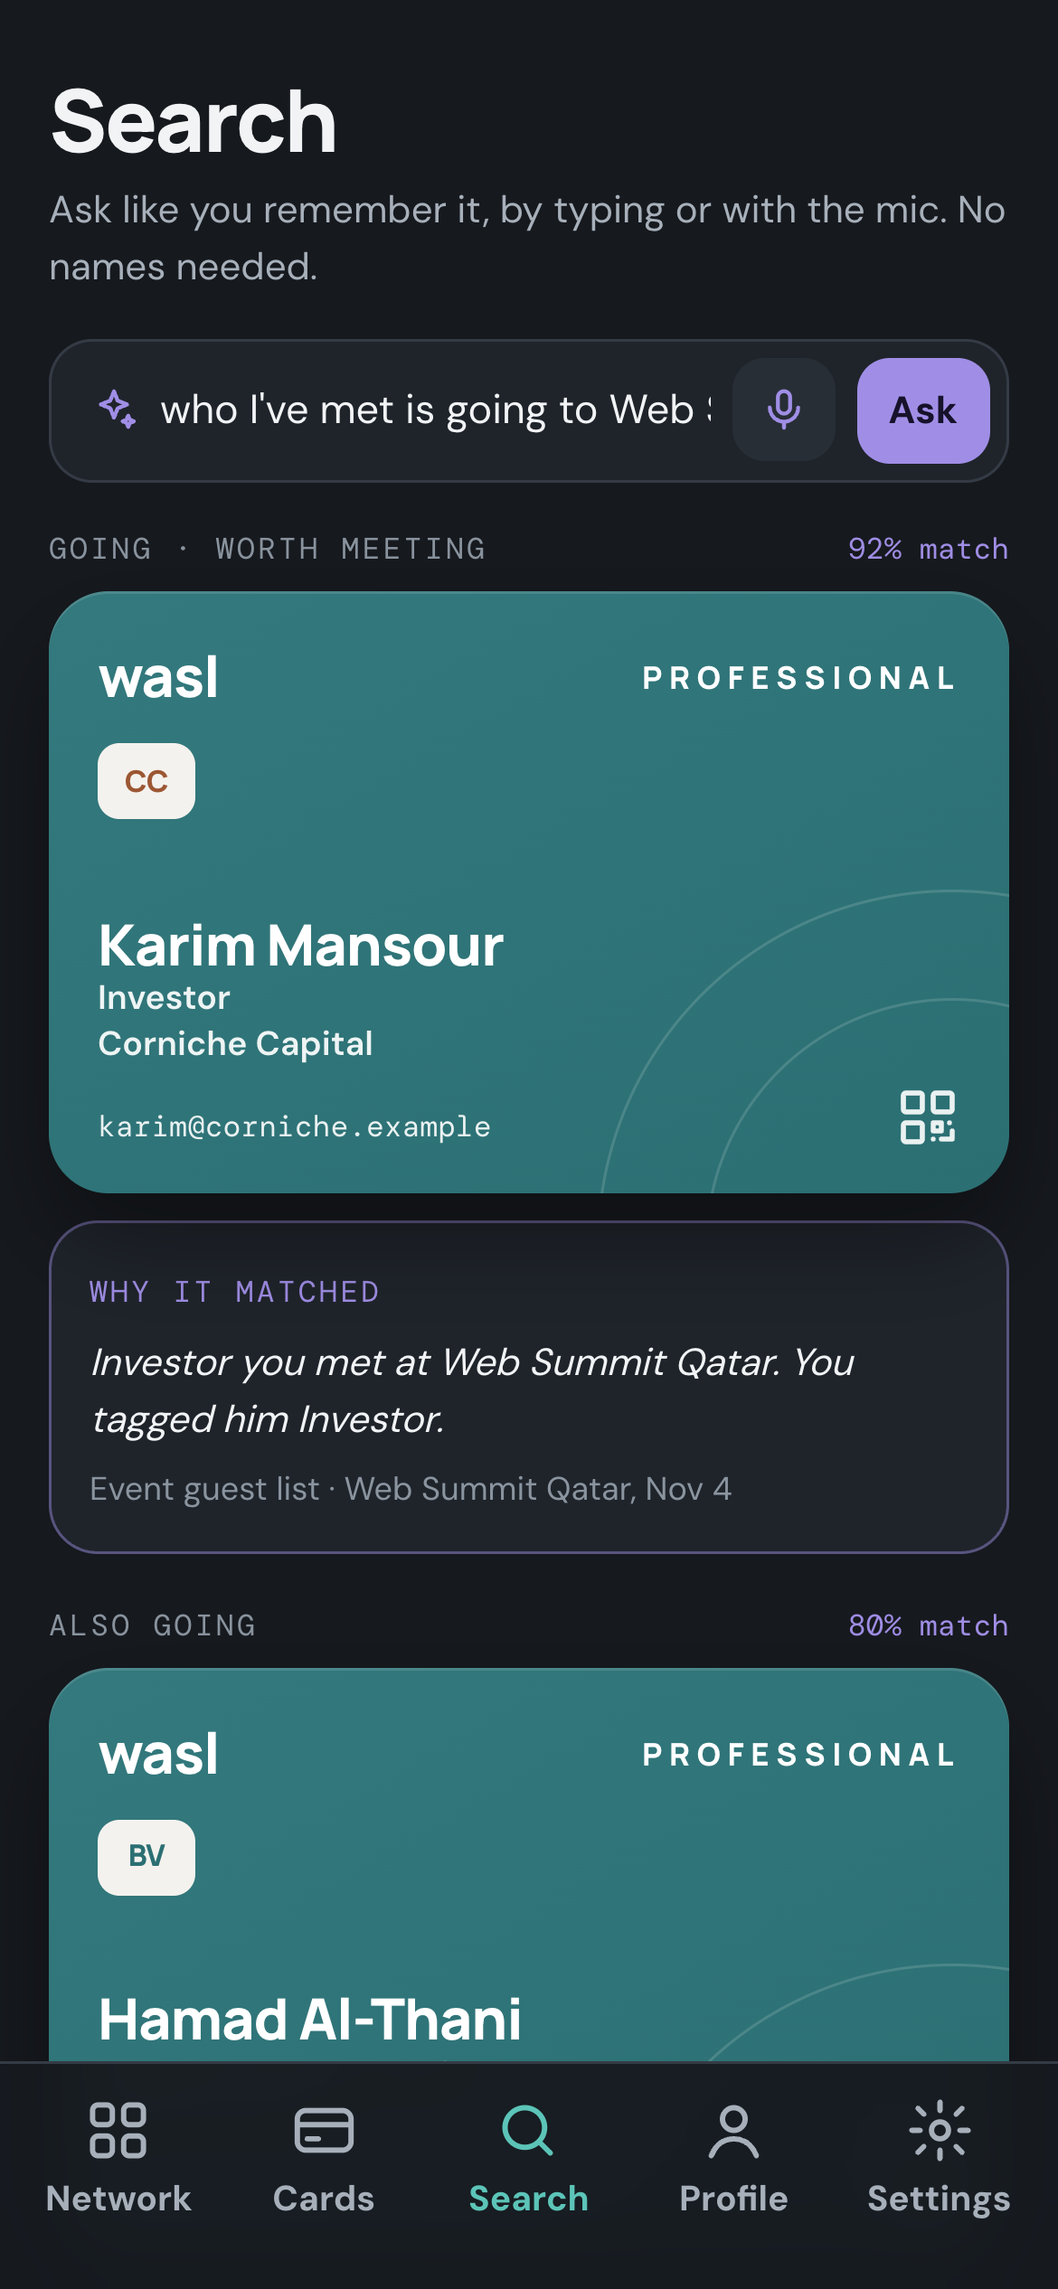
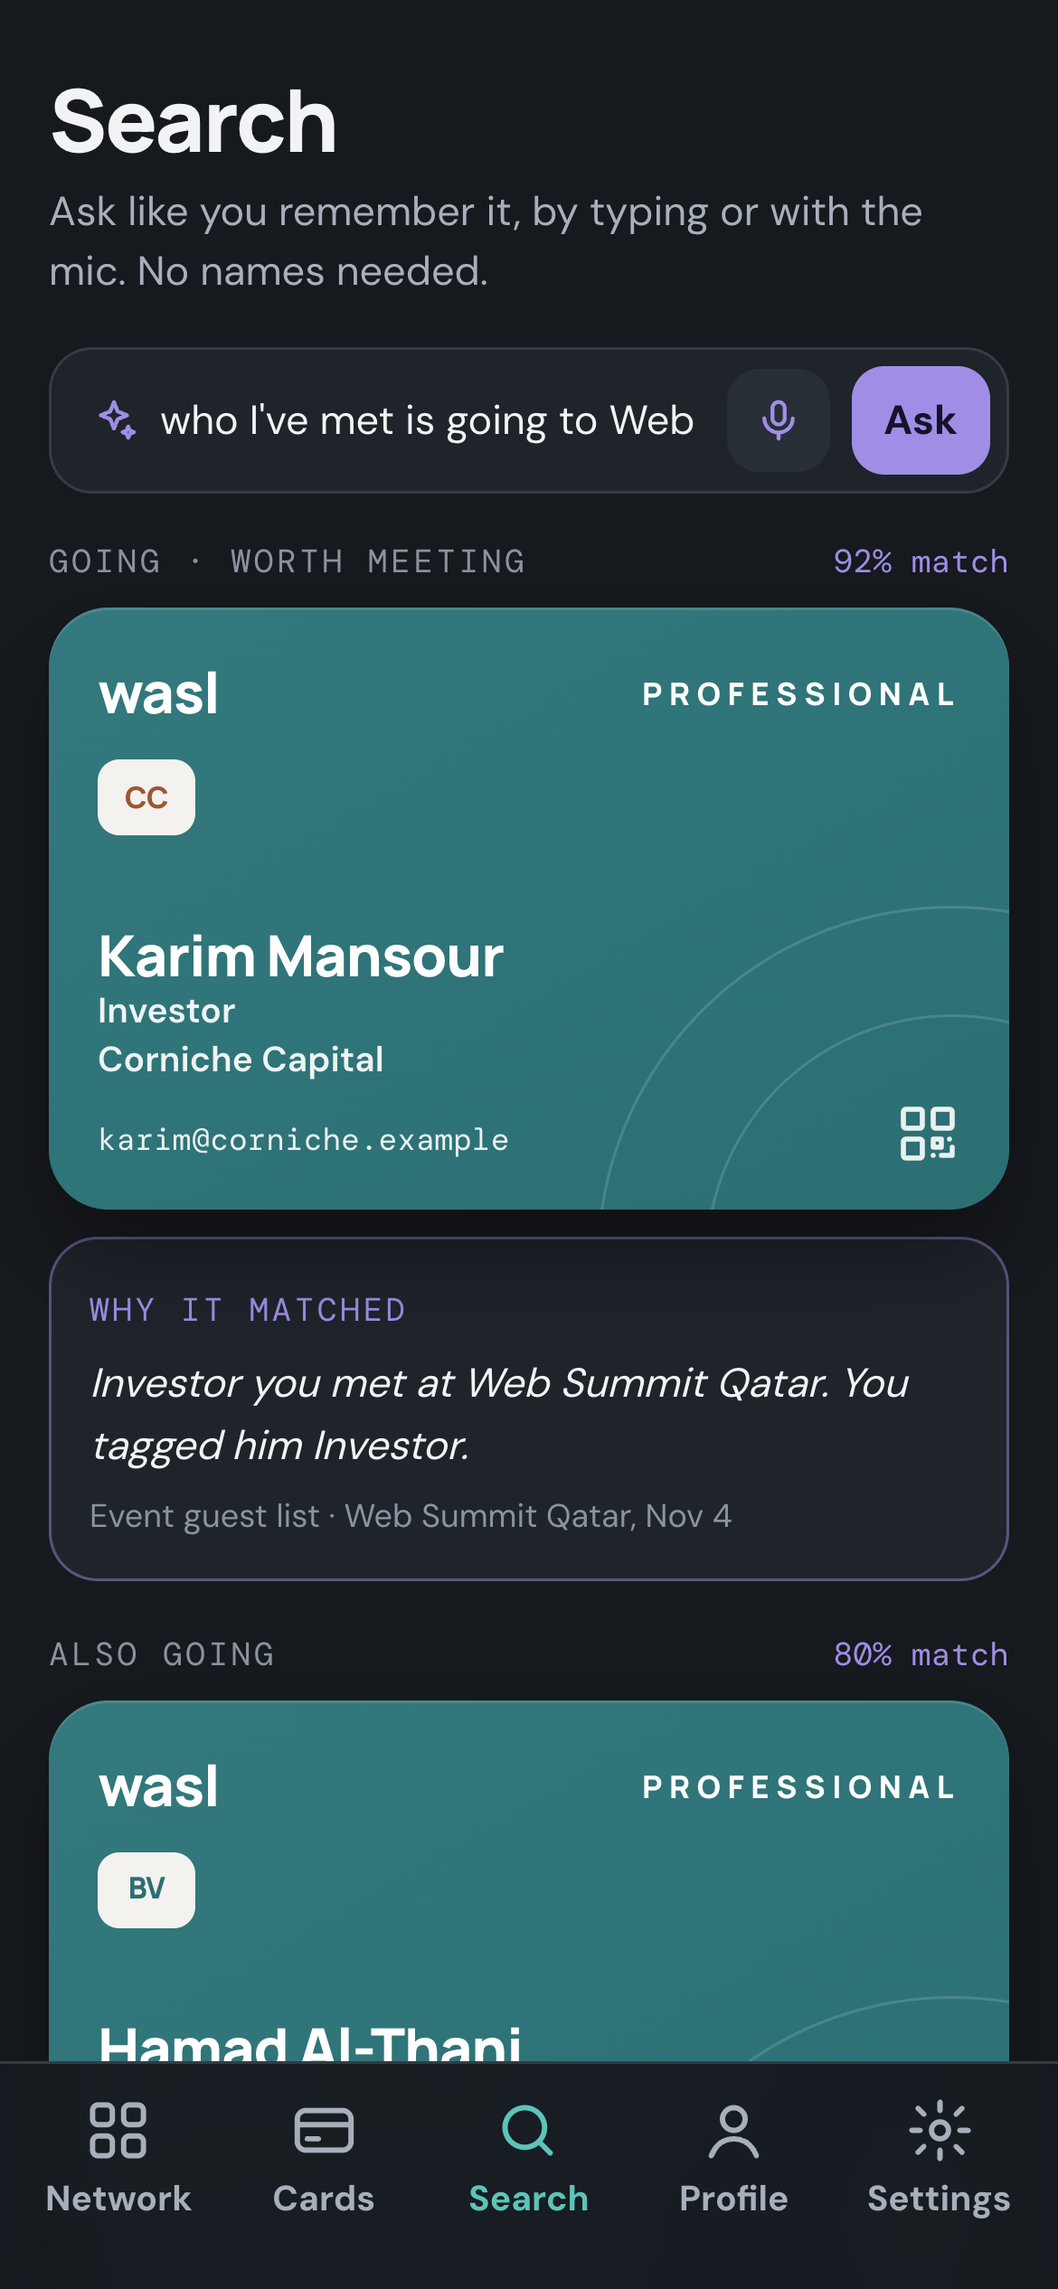
Labeled show/hide switches, larger text, scan button above the swap

diff --git a/index.html b/index.html
@@ -43,7 +43,7 @@ body {
   background: var(--page);
   color: var(--text);
   font-family: var(--body);
-  font-size: 14px;
+  font-size: 15px;
   line-height: 1.5;
   -webkit-font-smoothing: antialiased;
 }
@@ -148,7 +148,7 @@ h1, h2, h3 { font-family: var(--display); text-wrap: balance; }
   border-radius: 10px;
   padding: 7px 12px;
   font-weight: 600;
-  font-size: 13px;
+  font-size: 14px;
   color: var(--text-2);
 }
 .ghost:hover { color: var(--text); border-color: var(--muted); }
@@ -251,7 +251,7 @@ h1, h2, h3 { font-family: var(--display); text-wrap: balance; }
 .back svg { width: 18px; height: 18px; }
 .title { font-size: 32px; font-weight: 800; letter-spacing: -0.8px; line-height: 1.15; margin: 6px 0 4px; }
 .sub { color: var(--text-2); }
-.label { font-family: var(--mono); font-size: 11px; letter-spacing: 0.1em; text-transform: uppercase; color: var(--muted); }
+.label { font-family: var(--mono); font-size: 12px; letter-spacing: 0.1em; text-transform: uppercase; color: var(--muted); }
 .stack { display: flex; flex-direction: column; gap: 12px; }
 .row { display: flex; gap: 8px; align-items: center; }
 .btn {
@@ -272,7 +272,7 @@ h1, h2, h3 { font-family: var(--display); text-wrap: balance; }
 .btn.violet { background: var(--violet); color: #17122b; box-shadow: none; }
 .btn.small { width: auto; padding: 10px 14px; font-size: 14px; border-radius: 12px; }
 .link { border: 0; background: transparent; color: var(--text-2); font-weight: 600; text-decoration: underline; text-underline-offset: 3px; padding: 6px; }
-.hint { text-align: center; color: var(--muted); font-size: 13px; }
+.hint { text-align: center; color: var(--muted); font-size: 14px; }
 .panel {
   background: var(--surface);
   border: 1px solid var(--line);
@@ -335,10 +335,10 @@ h1, h2, h3 { font-family: var(--display); text-wrap: balance; }
 /* company logo, read from the business card: shown when the card shares a company */
 .card .c-tile.logo { align-self: flex-start; background: #f4f2ee; font-family: var(--display); font-weight: 800; font-size: 11px; letter-spacing: -0.2px; width: auto; min-width: 36px; padding: 0 7px; }
 .card .c-name { font-family: var(--display); font-weight: 800; font-size: 21px; letter-spacing: -0.4px; margin-top: auto; line-height: 1.15; overflow: hidden; text-overflow: ellipsis; white-space: nowrap; }
-.card .c-line { font-size: 12.5px; font-weight: 600; opacity: 0.92; line-height: 1.35; overflow: hidden; text-overflow: ellipsis; white-space: nowrap; }
+.card .c-line { font-size: 13px; font-weight: 600; opacity: 0.92; line-height: 1.35; overflow: hidden; text-overflow: ellipsis; white-space: nowrap; }
 .card .c-foot { display: flex; justify-content: space-between; align-items: flex-end; margin-top: 6px; gap: 8px; }
 .card .c-contacts { display: flex; flex-direction: column; min-width: 0; }
-.card .c-mono { font-family: var(--mono); font-size: 11px; line-height: 1.4; opacity: 0.9; overflow: hidden; text-overflow: ellipsis; white-space: nowrap; }
+.card .c-mono { font-family: var(--mono); font-size: 11.5px; line-height: 1.4; opacity: 0.9; overflow: hidden; text-overflow: ellipsis; white-space: nowrap; }
 /* small cards fanned out on the welcome screen: fixed size so long text can never stretch them */
 .card.mini { width: 196px; height: 122px; aspect-ratio: auto; padding: 12px 14px; border-radius: 16px; }
 .card.mini .c-word { font-size: 16px; }
@@ -359,10 +359,10 @@ h1, h2, h3 { font-family: var(--display); text-wrap: balance; }
 .wallet .card { position: absolute; left: 0; right: 0; width: 100%; transition: transform 200ms; }
 .wallet .card:last-child { position: relative; top: 0 !important; }
 .wallet .card.behind .c-tile { visibility: hidden; }
-.card .c-peek { font-family: var(--mono); font-size: 11px; font-weight: 500; opacity: 0.92; min-width: 0; overflow: hidden; text-overflow: ellipsis; white-space: nowrap; }
+.card .c-peek { font-family: var(--mono); font-size: 12px; font-weight: 500; opacity: 0.92; min-width: 0; overflow: hidden; text-overflow: ellipsis; white-space: nowrap; }
 .card-about { display: flex; flex-direction: column; gap: 2px; padding: 10px 14px; border-radius: 14px; background: var(--surface); border: 1px solid var(--line); }
 .card-about b { font-size: 14px; }
-.card-about span { color: var(--text-2); font-size: 13px; }
+.card-about span { color: var(--text-2); font-size: 14px; }
 .wallet .card.behind:hover { transform: translateY(-4px); }
 .wallet .card.front { animation: lift 320ms ease-out; }
 @keyframes lift { from { transform: translateY(-26px); } to { transform: none; } }
@@ -428,7 +428,7 @@ h1, h2, h3 { font-family: var(--display); text-wrap: balance; }
 .fields { display: grid; gap: 2px; padding-block: 6px; }
 .fld { display: grid; grid-template-columns: 92px 1fr; align-items: center; gap: 10px; padding: 6px 0; border-bottom: 1px solid var(--line); }
 .fld:last-child { border-bottom: 0; }
-.fld span { color: var(--muted); font-size: 13px; }
+.fld span { color: var(--muted); font-size: 14px; }
 .fld input { min-width: 0; background: var(--raised); border: 1px solid transparent; border-radius: 10px; color: var(--text); font: inherit; font-size: 14px; padding: 8px 10px; }
 .fld input:focus { outline: none; border-color: var(--teal); }
 .fld input::placeholder { color: var(--muted); }
@@ -460,7 +460,7 @@ h1, h2, h3 { font-family: var(--display); text-wrap: balance; }
 .detail .ic svg { width: 17px; height: 17px; }
 .detail .dv { min-width: 0; flex: 1; }
 .detail .dv b { display: block; font-weight: 600; overflow: hidden; text-overflow: ellipsis; white-space: nowrap; }
-.detail .dv span { color: var(--muted); font-size: 12.5px; }
+.detail .dv span { color: var(--muted); font-size: 13.5px; }
 .detail.missing .dv b { color: var(--muted); }
 .edit-btn { border: 0; background: transparent; color: var(--muted); width: 34px; height: 34px; border-radius: 10px; display: grid; place-items: center; flex: none; }
 .edit-btn:hover { color: var(--text); background: var(--raised); }
@@ -469,6 +469,19 @@ h1, h2, h3 { font-family: var(--display); text-wrap: balance; }
 .detail.editing .dv span { color: var(--muted); font-size: 12.5px; }
 .detail.editing input { min-width: 0; width: 100%; background: var(--raised); border: 1px solid var(--teal); border-radius: 10px; color: var(--text); font: inherit; padding: 8px 10px; outline: none; }
 
+.toggles { padding-block: 2px; }
+.tg { display: flex; align-items: center; gap: 12px; width: 100%; border: 0; border-bottom: 1px solid var(--line); background: transparent; color: var(--text); text-align: left; padding: 10px 0; }
+.tg:last-child { border-bottom: 0; }
+.tg .ic { width: 34px; height: 34px; border-radius: 10px; background: var(--raised); display: grid; place-items: center; flex: none; color: var(--text-2); }
+.tg .ic svg { width: 17px; height: 17px; }
+.tg .dv { min-width: 0; flex: 1; }
+.tg .dv b { display: block; font-size: 15px; font-weight: 600; }
+.tg .dv span { display: block; color: var(--muted); font-size: 13px; overflow: hidden; text-overflow: ellipsis; white-space: nowrap; }
+.tg[aria-pressed="false"] .dv b { color: var(--text-2); }
+.sw { width: 46px; height: 28px; border-radius: 14px; background: var(--raised); box-shadow: inset 0 0 0 1px var(--line); position: relative; flex: none; transition: background 150ms; }
+.sw::after { content: ""; position: absolute; top: 4px; left: 4px; width: 20px; height: 20px; border-radius: 50%; background: var(--muted); transition: transform 150ms, background 150ms; }
+.tg[aria-pressed="true"] .sw { background: var(--teal); box-shadow: none; }
+.tg[aria-pressed="true"] .sw::after { transform: translateX(18px); background: #fff; }
 .swatches { display: flex; gap: 12px; }
 .swatch { width: 40px; height: 40px; border-radius: 50%; border: 3px solid transparent; box-shadow: 0 0 0 1px var(--line); }
 .swatch[aria-pressed="true"] { border-color: var(--text); }
@@ -478,11 +491,11 @@ h1, h2, h3 { font-family: var(--display); text-wrap: balance; }
 .swatch.team { background: var(--card-team); }
 
 /* the two cards sit in the flow, so the labels can never land on a card at any screen size */
-.exchange { position: relative; display: flex; flex-direction: column; gap: 14px; margin-top: 10px; }
+.exchange { position: relative; display: flex; flex-direction: column; gap: 34px; margin-top: 10px; }
 .exchange .slot { position: relative; width: 100%; max-width: 300px; margin-inline: auto; transition: transform 700ms cubic-bezier(.6, -0.2, .3, 1.3), opacity 300ms; }
-.exchange .slot .who { font-family: var(--mono); font-size: 11px; letter-spacing: 0.08em; color: var(--muted); text-transform: uppercase; margin-bottom: 8px; }
-.exchange.swapping .theirs { transform: translateY(calc(100% + 14px)) rotate(-3deg); }
-.exchange.swapping .yours { transform: translateY(calc(-100% - 14px)) rotate(3deg); }
+.exchange .slot .who { font-family: var(--mono); font-size: 12px; letter-spacing: 0.08em; color: var(--muted); text-transform: uppercase; margin-bottom: 8px; }
+.exchange.swapping .theirs { transform: translateY(calc(100% + 34px)) rotate(-3deg); }
+.exchange.swapping .yours { transform: translateY(calc(-100% - 34px)) rotate(3deg); }
 .choice { display: flex; align-items: center; gap: 14px; width: 100%; text-align: left; border: 1px solid var(--line); background: var(--surface); color: var(--text); border-radius: 18px; padding: 16px; }
 .choice .ic { width: 44px; height: 44px; border-radius: 14px; display: grid; place-items: center; flex: none; background: rgba(92, 196, 184, 0.16); color: var(--teal); }
 .choice .ic svg { width: 22px; height: 22px; }
@@ -492,15 +505,15 @@ h1, h2, h3 { font-family: var(--display); text-wrap: balance; }
 .choice > svg { width: 18px; height: 18px; color: var(--muted); margin-left: auto; flex: none; }
 .sharing { margin-top: 22px; }
 .sharing .card { max-width: 300px; margin: 8px auto 0; }
-.exchange .pulse { position: absolute; left: 50%; top: 50%; width: 64px; height: 64px; margin: -32px; border-radius: 50%; display: grid; place-items: center; background: var(--raised); color: var(--teal); z-index: 2; }
-.exchange .pulse svg { width: 28px; height: 28px; }
+.exchange .pulse { position: absolute; left: 50%; top: 50%; width: 52px; height: 52px; margin: -26px; border-radius: 50%; display: grid; place-items: center; background: var(--raised); color: var(--teal); z-index: 2; }
+.exchange .pulse svg { width: 24px; height: 24px; }
 .exchange.swapping .pulse { animation: buzz 120ms linear 6; }
 @keyframes buzz { 0%, 100% { transform: translateX(0); } 25% { transform: translateX(-3px); } 75% { transform: translateX(3px); } }
 .qr { width: 100%; height: 100%; }
 
 .ctx .item { display: flex; gap: 12px; align-items: flex-start; padding: 8px 0; }
 .ctx .item svg { width: 18px; height: 18px; color: var(--teal); flex: none; margin-top: 2px; }
-.ctx .src { display: block; color: var(--muted); font-size: 12px; }
+.ctx .src { display: block; color: var(--muted); font-size: 13px; }
 .confirmed { display: flex; align-items: center; gap: 8px; color: var(--teal); font-weight: 600; }
 .confirmed svg { width: 18px; height: 18px; }
 
@@ -523,13 +536,13 @@ h1, h2, h3 { font-family: var(--display); text-wrap: balance; }
 .summary { border-color: rgba(239, 160, 102, 0.45); }
 .summary ul { margin: 8px 0 0; padding-left: 18px; display: flex; flex-direction: column; gap: 6px; }
 .mic-wrap .live { width: 100%; max-height: 120px; overflow-y: auto; margin: 2px 0 0; padding: 10px 12px; border-radius: 12px; background: var(--raised); color: var(--text-2); font-size: 13.5px; line-height: 1.45; text-align: left; }
-.transcript { margin-top: 10px; font-size: 13px; color: var(--text-2); }
+.transcript { margin-top: 10px; font-size: 14px; color: var(--text-2); }
 .transcript summary { cursor: pointer; color: var(--muted); font-weight: 600; }
 .transcript p { margin: 6px 0 0; line-height: 1.5; }
 .search .voice { width: 38px; height: 38px; border-radius: 12px; border: 0; background: var(--raised); color: var(--violet); display: grid; place-items: center; flex: none; padding: 0; }
 .search .voice svg { width: 18px; height: 18px; }
 .search .voice.on { background: var(--danger); color: #2a0f0f; animation: ring 1s ease-out infinite; }
-.summary .kept { margin-top: 10px; color: var(--muted); font-size: 12.5px; display: flex; gap: 6px; align-items: center; }
+.summary .kept { margin-top: 10px; color: var(--muted); font-size: 13.5px; display: flex; gap: 6px; align-items: center; }
 .summary .kept svg { width: 14px; height: 14px; }
 .shimmer { height: 12px; border-radius: 6px; background: linear-gradient(90deg, var(--raised), #3a424d, var(--raised)); background-size: 200% 100%; animation: sh 1s linear infinite; }
 @keyframes sh { to { background-position: -200% 0; } }
@@ -557,16 +570,16 @@ h1, h2, h3 { font-family: var(--display); text-wrap: balance; }
 .album .cover i:nth-child(1) { transform: rotate(-12deg) translateX(-14px); }
 .album .cover i:nth-child(3) { transform: rotate(10deg) translateX(14px) translateY(6px); }
 .album b { display: block; margin-top: 8px; font-weight: 600; font-size: 13.5px; line-height: 1.3; }
-.album span { color: var(--muted); font-size: 12px; }
+.album span { color: var(--muted); font-size: 13px; }
 .album.new .cover { display: grid; place-items: center; border-style: dashed; color: var(--muted); }
 .album.new .cover svg { width: 26px; height: 26px; }
-.auto { font-family: var(--mono); font-size: 10px; color: var(--teal); }
+.auto { font-family: var(--mono); font-size: 11px; color: var(--teal); }
 .people { list-style: none; margin: 0; padding: 0; }
 .person { display: flex; gap: 12px; align-items: center; padding: 10px 0; border-bottom: 1px solid var(--line); width: 100%; background: transparent; border-left: 0; border-right: 0; border-top: 0; text-align: left; }
 .person .mini { width: 52px; height: 34px; border-radius: 7px; flex: none; display: grid; place-items: center; font-family: var(--display); font-weight: 800; font-size: 13px; color: #fff; }
 .person .pv { min-width: 0; flex: 1; }
 .person .pv b { display: block; font-weight: 600; }
-.person .pv span { color: var(--muted); font-size: 12.5px; display: block; overflow: hidden; text-overflow: ellipsis; white-space: nowrap; }
+.person .pv span { color: var(--muted); font-size: 13.5px; display: block; overflow: hidden; text-overflow: ellipsis; white-space: nowrap; }
 .person .star { color: #ffd27a; width: 16px; height: 16px; }
 .group-h { margin-top: 16px; }
 .flip { display: flex; gap: 12px; overflow-x: auto; scroll-snap-type: x mandatory; margin: 0 calc(-1 * var(--gutter)); padding: 6px var(--gutter) 14px; scroll-padding-inline: var(--gutter); scrollbar-width: none; }
@@ -584,11 +597,11 @@ h1, h2, h3 { font-family: var(--display); text-wrap: balance; }
 .why { border-color: rgba(160, 142, 230, 0.45); }
 .why q { display: block; font-style: italic; color: var(--text); margin-top: 6px; }
 .why q::before, .why q::after { content: ""; }
-.match { font-family: var(--mono); font-size: 11px; color: var(--violet); }
+.match { font-family: var(--mono); font-size: 12px; color: var(--violet); }
 
 .setting { display: flex; justify-content: space-between; gap: 12px; align-items: center; padding: 12px 0; border-bottom: 1px solid var(--line); }
 .setting:last-child { border-bottom: 0; }
-.setting span { color: var(--muted); font-size: 12.5px; display: block; }
+.setting span { color: var(--muted); font-size: 13.5px; display: block; }
 .switch { width: 46px; height: 28px; border-radius: 20px; background: var(--teal); position: relative; flex: none; border: 0; }
 .switch::after { content: ""; position: absolute; top: 3px; right: 3px; width: 22px; height: 22px; border-radius: 50%; background: #fff; }
 .switch[aria-checked="false"] { background: var(--raised); }
@@ -609,7 +622,7 @@ h1, h2, h3 { font-family: var(--display); text-wrap: balance; }
   border-radius: 999px;
   padding: 8px 14px;
   font-weight: 600;
-  font-size: 13px;
+  font-size: 14px;
   white-space: nowrap;
   display: flex; gap: 8px; align-items: center;
   animation: toast 2.2s ease forwards;
@@ -1007,14 +1020,18 @@ h1, h2, h3 { font-family: var(--display); text-wrap: balance; }
     build() {
       const d = S.draft;
       const allContact = ["role", "org", "email", "linkedin", "phone", "instagram"];
-      const hidden = allContact.filter((f) => !d.fields.includes(f) && (f !== "instagram" || S.extra.instagram));
+      // every detail gets a labeled switch, so people can see exactly what they're hiding (testers couldn't tell)
+      const rows = allContact.filter((f) => f !== "instagram" || S.extra.instagram);
       return `${back("wallet", "Cards")}
         <h2 class="title" style="font-size:26px">Edit ${kindName(S.editId)} card</h2>
-        <p class="sub">${KIND_FOR[S.editId]} Tap a detail on the card to hide it, like your email.</p>
+        <p class="sub">${KIND_FOR[S.editId]} Switch off anything you don't want to share, like your email.</p>
         <div style="margin:16px 0 18px">${card(S.editId, { data: d, edit: true })}</div>
         <div class="stack">
-          <div class="label">Add from your profile</div>
-          <div class="chips">${hidden.length ? hidden.map((f) => `<button class="chip" data-act="add-field" data-f="${f}">${ic(FIELD_META[f].icon)}${FIELD_META[f].short || FIELD_META[f].label}</button>`).join("") : '<span class="sub" style="font-size:13px">Everything is on this card.</span>'}</div>
+          <div class="label">What this card shares</div>
+          <div class="panel toggles">${rows.map((f) => {
+            const on = d.fields.includes(f);
+            return `<button class="tg" data-act="${on ? "hide-field" : "add-field"}" data-f="${f}" aria-pressed="${on}" aria-label="${on ? "Hide" : "Show"} ${FIELD_META[f].label}"><span class="ic">${ic(FIELD_META[f].icon)}</span><span class="dv"><b>${FIELD_META[f].label}</b><span>${on ? "Shown" : "Hidden"} · ${esc(ME[f])}</span></span><span class="sw" aria-hidden="true"></span></button>`;
+          }).join("")}</div>
           <div class="label" style="margin-top:6px">Color</div>
           <div class="swatches">${["pro", "event", "social", "team"].map((c) => `<button class="swatch ${c}" data-act="color" data-c="${c}" aria-pressed="${d.color === c}" aria-label="${COLOR_NAME[c]}"></button>`).join("")}</div>
           <button class="btn" style="margin-top:12px" data-act="save-card">${ic("check")}Save card</button>
@@ -1138,14 +1155,14 @@ h1, h2, h3 { font-family: var(--display); text-wrap: balance; }
       return `${back("exchange-reset", "Back")}
         <h2 class="title" style="font-size:26px">Swap cards with Mariam</h2>
         <p class="sub">Scan Mariam's code, or let her scan yours.</p>
+        <div class="row" style="margin-top:14px">
+          <div style="width:72px;height:72px;flex:none">${qrSvg(7)}</div>
+          <button class="btn" data-act="do-swap" ${S.exPhase === "swapping" ? "disabled" : ""}>${ic("scan")}Scan Mariam's code</button>
+        </div>
         <div class="exchange ${S.exPhase === "swapping" ? "swapping" : ""}" id="exchange">
           <div class="slot theirs"><div class="who">Mariam's phone</div>${personCard(MARIAM)}</div>
           <div class="pulse">${ic("swap")}</div>
-          <div class="slot yours"><div class="who">Your ${kind} card</div>${card(S.front)}</div>
-        </div>
-        <div class="row" style="margin-top:12px">
-          <div style="width:72px;height:72px;flex:none">${qrSvg(7)}</div>
-          <button class="btn" data-act="do-swap" ${S.exPhase === "swapping" ? "disabled" : ""}>${ic("scan")}Scan Mariam's code</button>
+          <div class="slot yours"><div class="who">Your card</div>${card(S.front)}</div>
         </div>`;
     },
 
